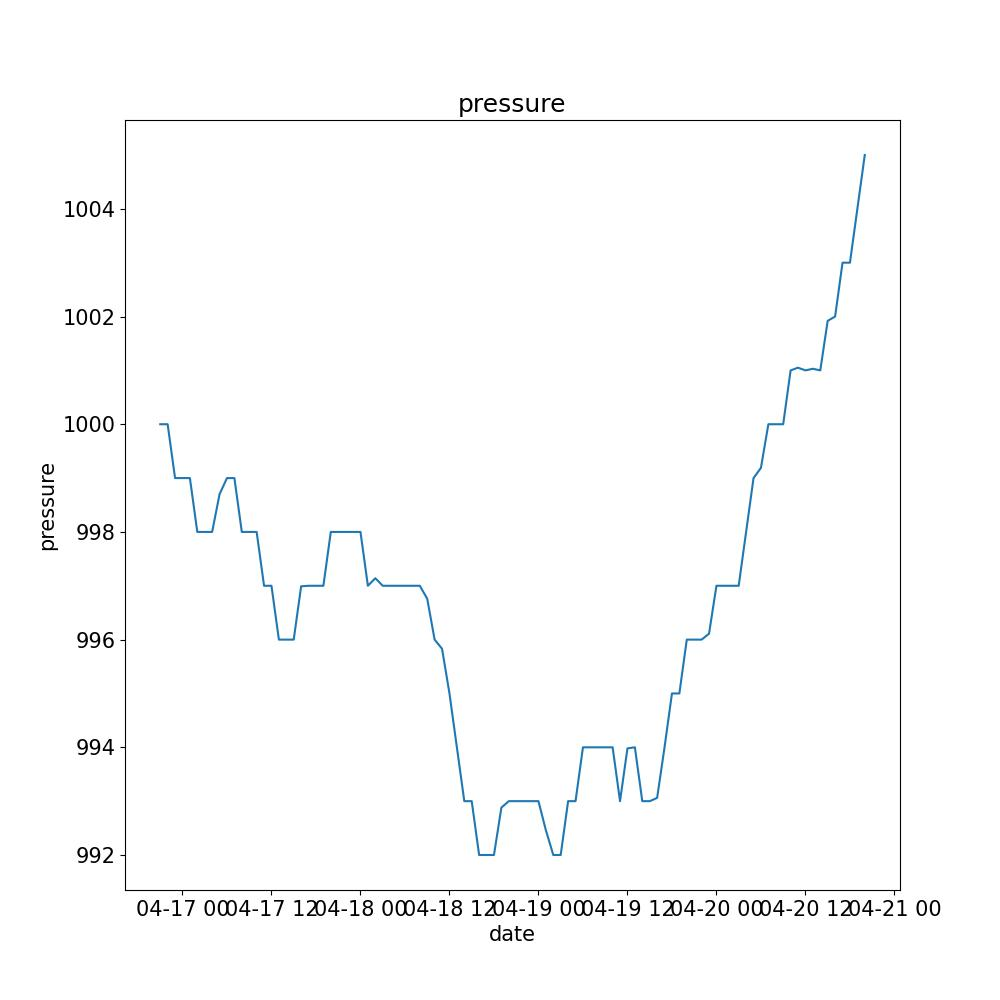
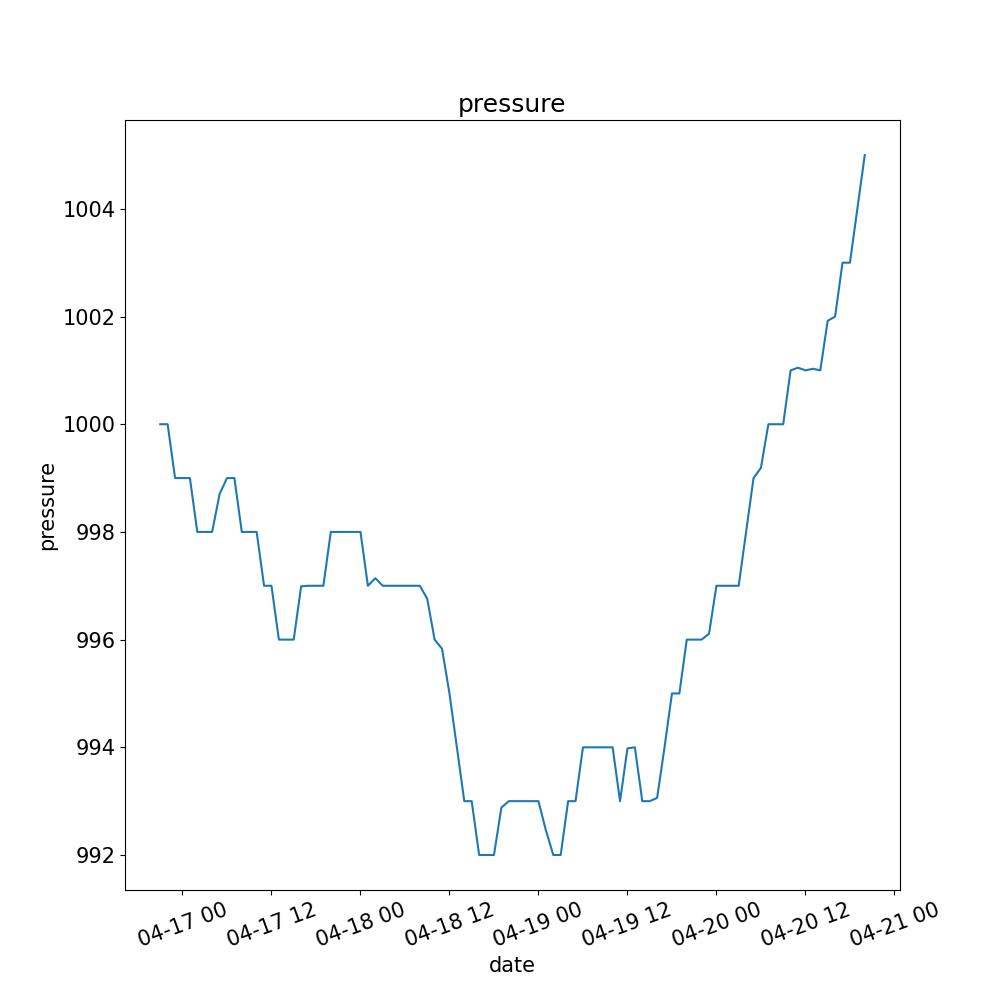
Update: 2024-04-20 20:24:02

Changed region(s): [[0.124, 0.899, 0.961, 0.992]]

diff --git a/index.html b/index.html
@@ -45,6 +45,6 @@
       <img src="image4.jpg?version=0420" alt="No.4">
     </div>
   </div>
-  <div style="background-color: tomato; width: 100%; height: 40px; font-size: 16px;">Last updated at 20:22</div>
+  <div style="background-color: tomato; width: 100%; height: 40px; font-size: 16px;">Last updated at 20:23</div>
 </body>
 </html>

diff --git a/create_plot.py b/create_plot.py
@@ -66,6 +66,7 @@ humidity = fetch_recent_data(db_path, table_name, column_humidity)
 y = humidity
 plt.title('humidity')
 plt.plot(x,y)
+plt.xticks(rotation=20)
 plt.xlabel('date')
 plt.ylabel('humidity')
 plt.savefig('/home/pi/Desktop/cotoha/cotoha-weather.github.io/image2.jpg')
@@ -77,6 +78,7 @@ pressure = fetch_recent_data(db_path, table_name, column_pressure)
 y = pressure
 plt.title('pressure')
 plt.plot(x,y)
+plt.xticks(rotation=20)
 plt.xlabel('date')
 plt.ylabel('pressure')
 plt.savefig('/home/pi/Desktop/cotoha/cotoha-weather.github.io/image3.jpg')
@@ -88,6 +90,7 @@ satellite_count = fetch_recent_data(db_path, table_name, column_satelliteCount)
 y = satellite_count
 plt.title('satellite_count')
 plt.plot(x,y)
+plt.xticks(rotation=20)
 plt.xlabel('date')
 plt.ylabel('satellite_count')
 plt.savefig('/home/pi/Desktop/cotoha/cotoha-weather.github.io/image4.jpg')
